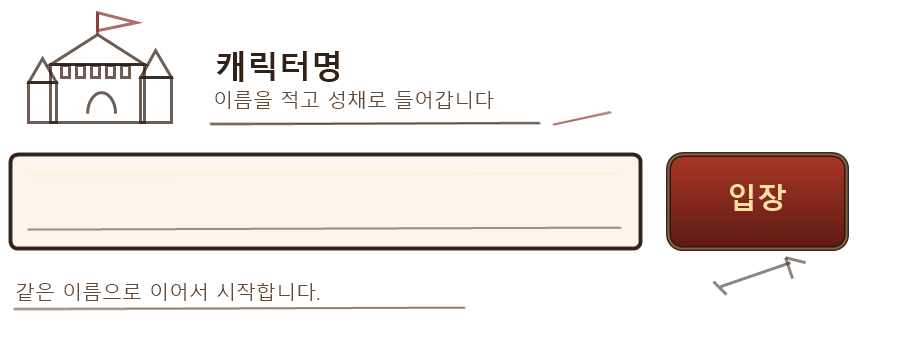
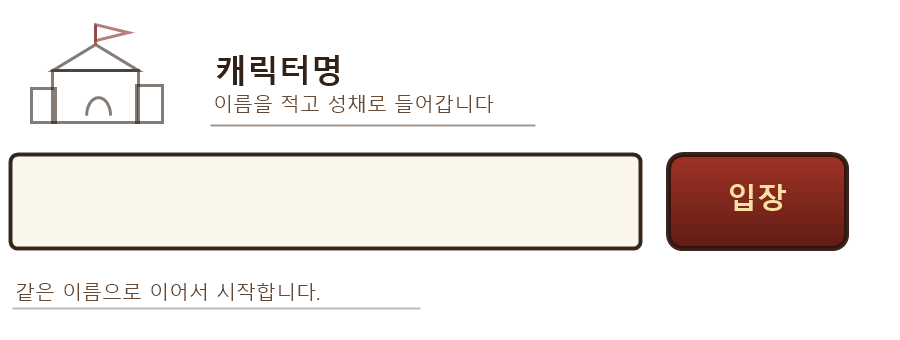
Clean up start login panel

diff --git a/index.html b/index.html
@@ -4,7 +4,7 @@
     <meta charset="utf-8">
     <meta name="viewport" content="width=device-width, initial-scale=1">
     <title>Paper Citadel - 종이성채</title>
-    <link rel="stylesheet" href="style.css?v=20260608-startpanel-2">
+    <link rel="stylesheet" href="style.css?v=20260608-startpanel-3">
   </head>
   <body>
     <main class="shell">
@@ -31,6 +31,6 @@
       </form>
     </main>
     <script src="https://cdn.socket.io/4.8.3/socket.io.min.js"></script>
-    <script src="game.js?v=20260608-startpanel-2"></script>
+    <script src="game.js?v=20260608-startpanel-3"></script>
   </body>
 </html>

diff --git a/style.css b/style.css
@@ -1249,7 +1249,7 @@ canvas {
 
 .start-board .game-box {
   position: absolute;
-  left: 61.2%;
+  left: 59.8%;
   top: 25.6%;
   right: auto;
   z-index: 2;
@@ -1274,7 +1274,7 @@ canvas {
   border: 0;
   border-radius: 0;
   color: #25170e;
-  background: url("assets/start-login-panel.png?v=20260608-startpanel-2") left top / 100% 100% no-repeat;
+  background: url("assets/start-login-panel.png?v=20260608-startpanel-3") left top / 100% 100% no-repeat;
   box-shadow: none;
   backdrop-filter: none;
 }
